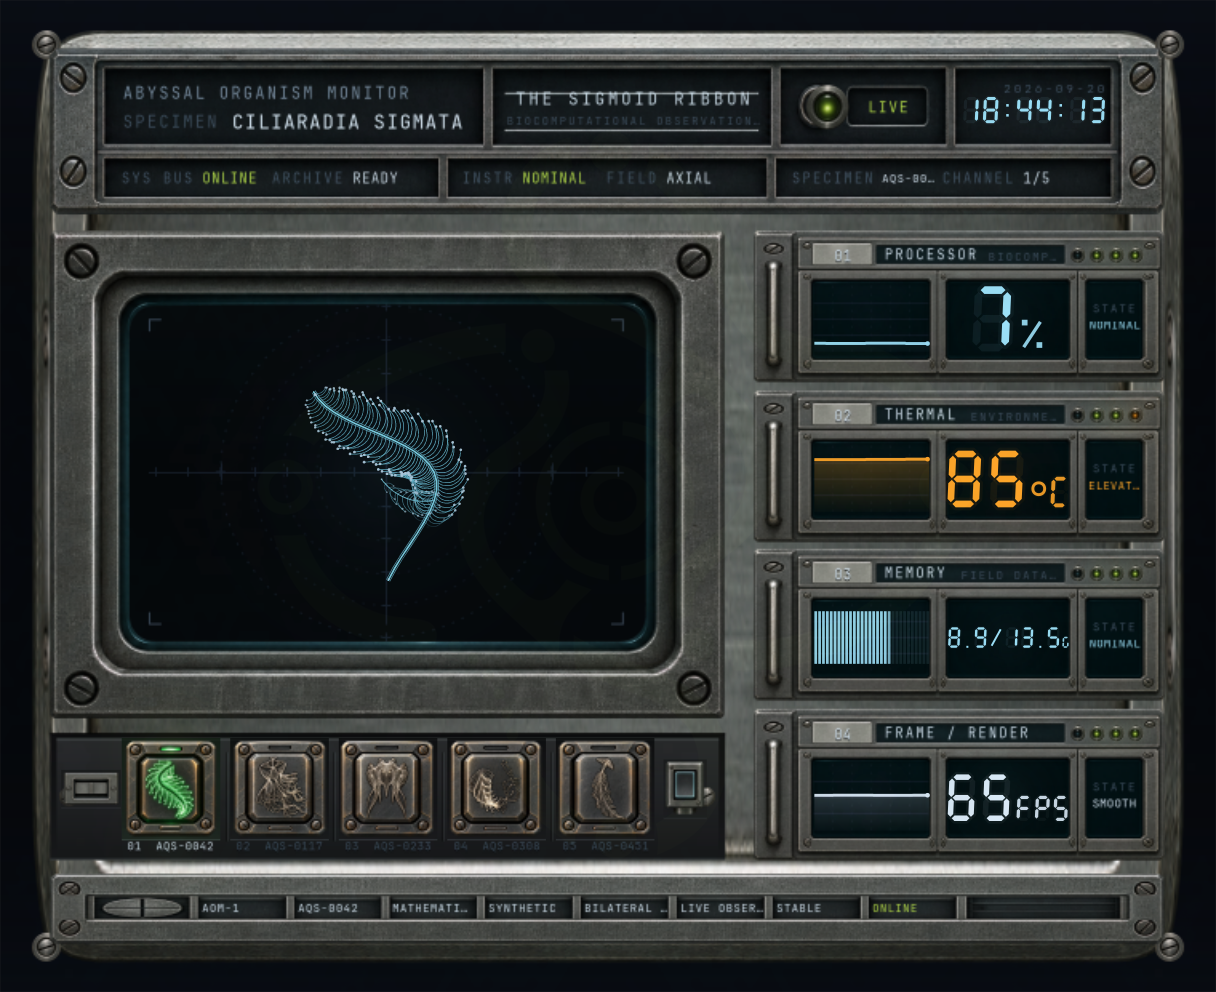
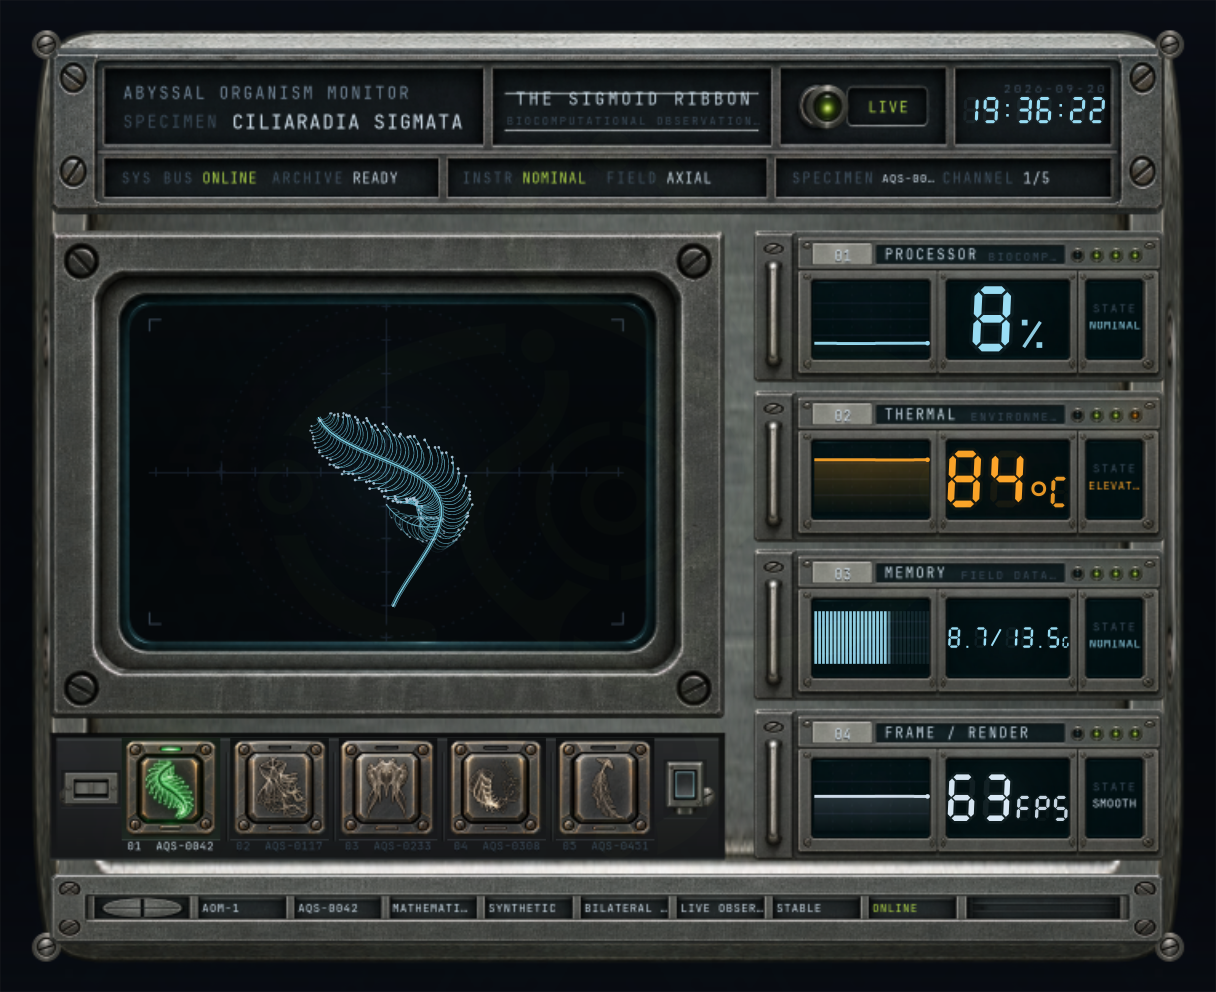
Seat each specimen on its own scope, and give the dyad two visible bodies
A body authored in its natural frame does not generally have its visual mass
at the world origin - a single arcuate frond certainly does not - and the
viewport centres the origin, not the creature. Half the catalogue sat off to
one side of its own graticule.

Body now measures that offset once from the rest pose and holds it fixed.
Measuring it per frame would make the specimen crawl around the field as it
moved, which is worse than being off-centre.

The dyad's orbit was reading as a stray hairline beside its comb, so the pair
looked like one body and an artefact. Brightened, widened, and its connective
filaments with it. The frond's length comes down so its tip stops riding the
radius clamp.

diff --git a/abyssal/organism/mathforms.py b/abyssal/organism/mathforms.py
@@ -105,7 +105,7 @@ class Body:
     __slots__ = ("time", "core_r", "rng", "seed",
                  "fil_x", "fil_y", "fil_alpha", "fil_width", "fil_tint",
                  "fil_dot", "node_x", "node_y", "node_r", "node_a",
-                 "_nf", "_np", "_nn", "_rate")
+                 "_nf", "_np", "_nn", "_rate", "_ox", "_oy")
 
     #: Species-level identity, mirrored into `species.py`.
     KEY = "body"
@@ -128,14 +128,41 @@ class Body:
         self.node_y = np.zeros(n_node, dtype=np.float64)
         self.node_r = np.zeros(n_node, dtype=np.float64)
         self.node_a = np.zeros(n_node, dtype=np.float64)
+        self._ox = 0.0
+        self._oy = 0.0
         self._build()
         self._shape(Physiology())
+        self._centre()
 
     # -- contract ---------------------------------------------------------
+    def _centre(self) -> None:
+        """Measure the offset that seats this body on the world origin.
+
+        A specimen authored in its own natural frame does not generally have
+        its visual mass at (0, 0) - a single arcuate frond certainly does not -
+        and the viewport centres the WORLD origin, not the creature. Left
+        alone, half the catalogue sits off to one side of its own scope.
+
+        The offset is measured ONCE, from the rest pose, and then held fixed.
+        Re-measuring per frame would make the creature crawl around the field
+        as it moved, which is worse than being off-centre.
+        """
+        m = self.fil_alpha > 0.02
+        if not m.any():
+            return
+        w = self.fil_alpha[m][:, None]
+        self._ox = -float((self.fil_x[m] * w).sum() / (w.sum() * self._np))
+        self._oy = -float((self.fil_y[m] * w).sum() / (w.sum() * self._np))
+
     def update(self, dt: float, p: Physiology) -> None:
         """Advance the clock and re-solve the pose. Allocation-free."""
         self.time += dt * self._rate
         self._shape(p)
+        if self._ox or self._oy:
+            np.add(self.fil_x, self._ox, out=self.fil_x)
+            np.add(self.fil_y, self._oy, out=self.fil_y)
+            np.add(self.node_x, self._ox, out=self.node_x)
+            np.add(self.node_y, self._oy, out=self.node_y)
         _clamp_radius(self.fil_x, self.fil_y)
         _clamp_radius(self.node_x, self.node_y)
 
@@ -895,10 +922,13 @@ class Dyad(Body):
             self.fil_y[i] = oy[a:b]
             seg = (k + 0.5) / ORB
             hot = math.exp(-((seg - (1.0 - min(pk, 1.0))) / 0.18) ** 2) * p.surge
-            self.fil_alpha[i] = min(1.0, 0.52 + 0.40 * hot)
-            self.fil_width[i] = 2.0 + 1.6 * hot
-            self.fil_tint[i] = min(1.0, 0.44 + 0.26 * warm + 0.50 * hot)
-            self.fil_dot[i] = 6.6
+            # The pair is a pair: an orbit that reads as a stray hairline
+            # next to the comb makes the specimen look like one body and a
+            # rendering artefact.
+            self.fil_alpha[i] = min(1.0, 0.74 + 0.26 * hot)
+            self.fil_width[i] = 2.8 + 1.6 * hot
+            self.fil_tint[i] = min(1.0, 0.58 + 0.24 * warm + 0.40 * hot)
+            self.fil_dot[i] = 6.0
 
         # ---- connective filaments -------------------------------------------
         il = i0 + ORB
@@ -913,8 +943,8 @@ class Dyad(Body):
             self.fil_x[i] = ax + (bx - ax) * self.spine_u
             self.fil_y[i] = (ay + (by - ay) * self.spine_u
                              + bow * np.sin(np.pi * self.spine_u))
-            self.fil_alpha[i] = 0.24 + 0.30 * p.flux
-            self.fil_width[i] = 1.3
+            self.fil_alpha[i] = 0.34 + 0.34 * p.flux
+            self.fil_width[i] = 1.5
             self.fil_tint[i] = 0.30 + 0.45 * p.surge
             self.fil_dot[i] = 8.0
 
@@ -923,8 +953,8 @@ class Dyad(Body):
         pick = np.linspace(0, len(ox) - 1, 8).astype(int)
         self.node_x[n0:n0 + 8] = ox[pick]
         self.node_y[n0:n0 + 8] = oy[pick]
-        self.node_r[n0:n0 + 8] = 2.4
-        self.node_a[n0:n0 + 8] = 0.62
+        self.node_r[n0:n0 + 8] = 2.8
+        self.node_a[n0:n0 + 8] = 0.78
 
 
 # ==========================================================================
@@ -958,7 +988,7 @@ class Frond(Body):
     _M = 72                  # barb stations
     _HOOD = 13
     _P = 22
-    _LEN = 448.0
+    _LEN = 412.0
     _POSE = 1.02             # brings the hood to the head, as engraved
 
     def _sizes(self) -> tuple[int, int, int]:
